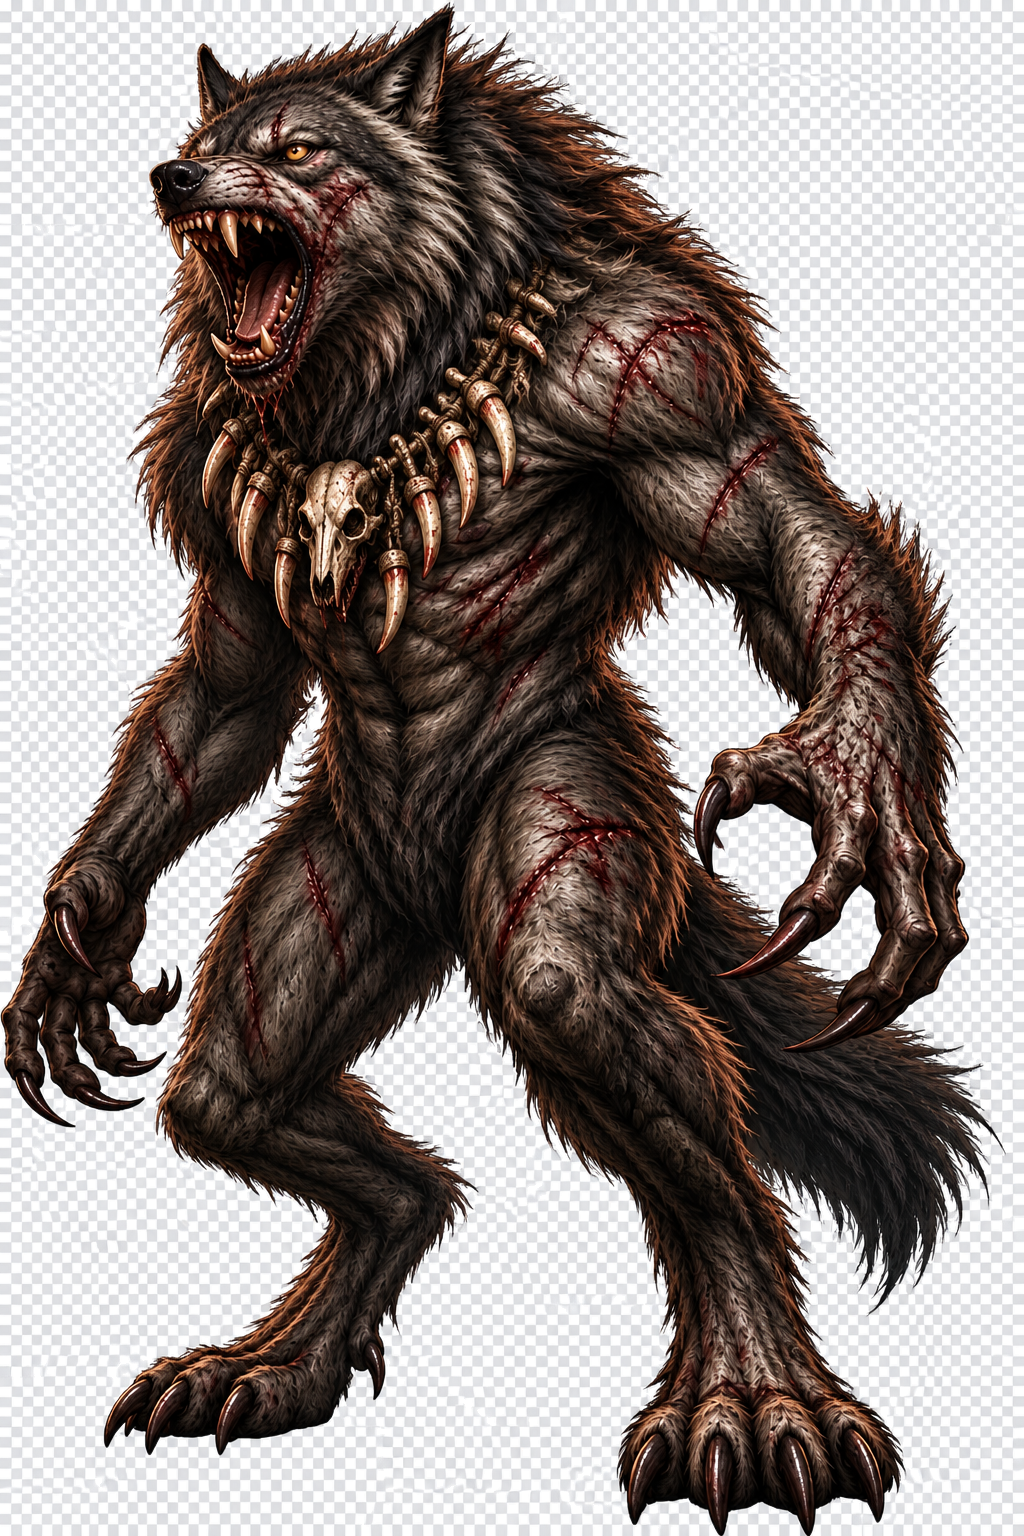
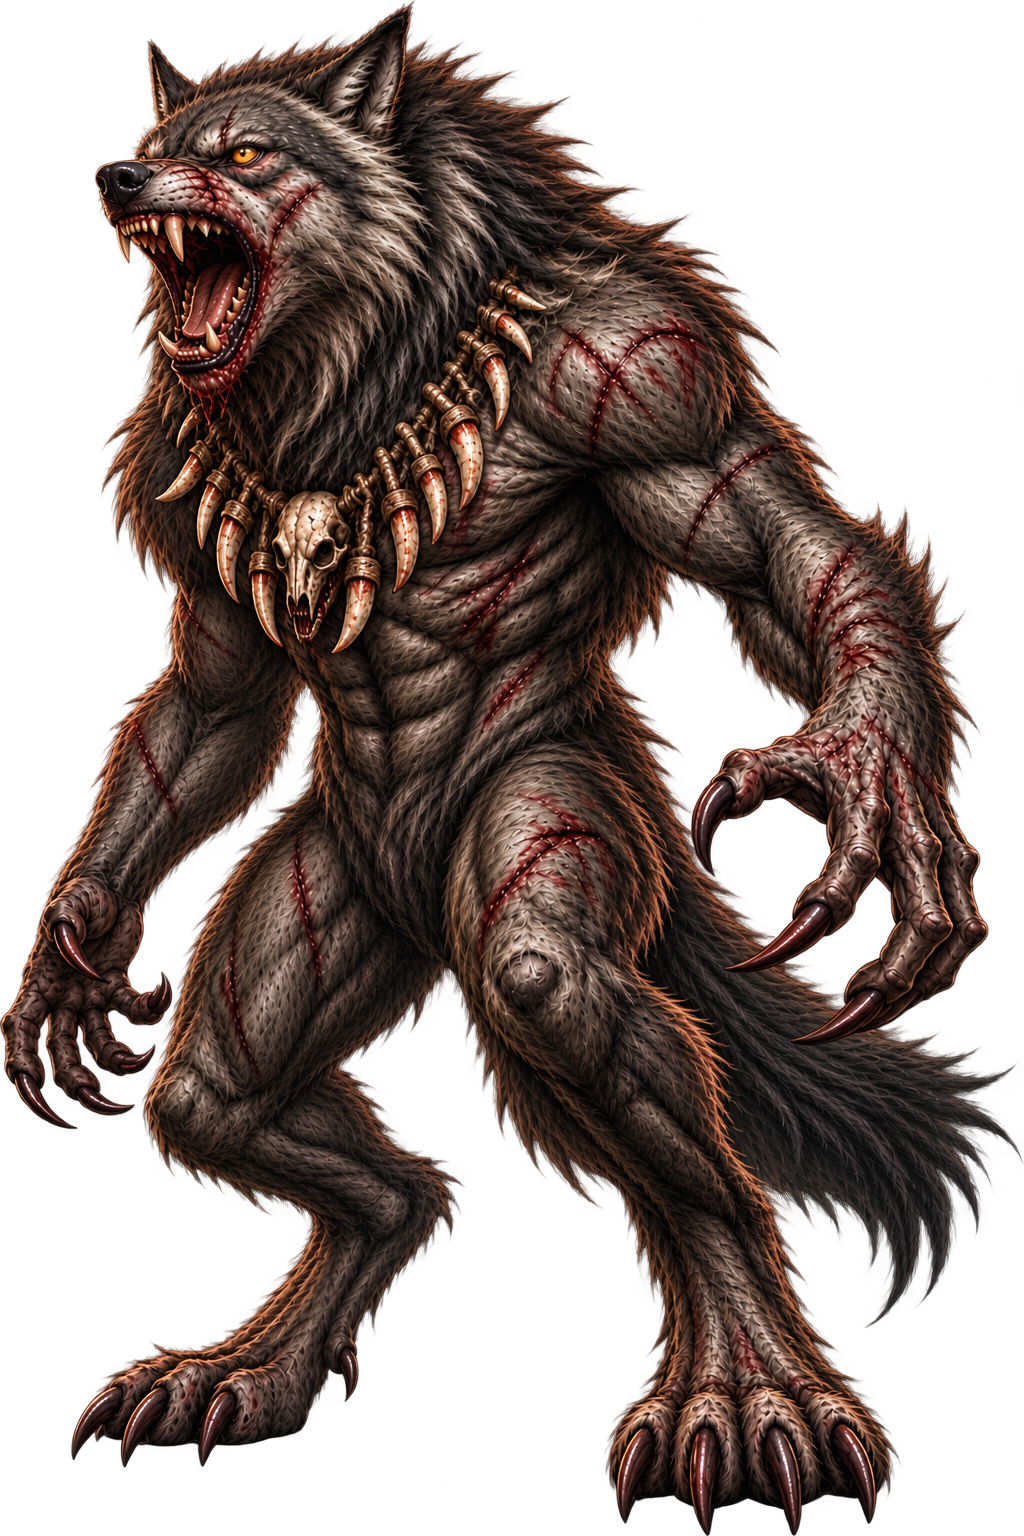
Replace Alfa V2 art with clean transparent source and contain it

diff --git a/src/game.js b/src/game.js
@@ -26,7 +26,7 @@ const COMBAT_PRESENTATION = {
     lobo_cinzento:{ x:0.73, ground:0, w:0.50, h:0.60, ax:-0.5, ay:0 },
     lobisomem_jovem:{ x:0.73, ground:0, w:0.50, h:0.70, ax:-0.5, ay:0 },
     uivante_sombras:{ x:0.70, ground:0, w:0.58, h:0.95, ax:-0.5, ay:0 },
-    alfa_matilha:{ x:0.68, ground:0, w:0.50, h:0.86, ax:-0.5, ay:0 },
+    alfa_matilha:{ x:0.75, ground:0, w:0.44, h:0.82, ax:-0.5, ay:0 },
     romar:{ x:0.70, ground:0, w:0.46, h:0.78, ax:-0.5, ay:0 },
     orc_batedor:{ x:0.68, ground:0, w:0.46, h:0.76, ax:-0.5, ay:0 },
     orc_guerreiro:{ x:0.69, ground:0, w:0.378, h:0.702, ax:-0.5, ay:0 },

diff --git a/styles/game.css b/styles/game.css
@@ -796,7 +796,8 @@
   transform:scaleX(-1);
 }
 
-/* Post-playtest: keep the stage and essential controls together; details scroll. */
+/* Alfa V3: contain the full silhouette in the arena actor. */
+.arena-actor[data-actor="alfa_matilha"] > .combatant-artwork > .avatar-img-circle{width:100%;height:100%;max-width:100%;max-height:100%;object-fit:contain;object-position:center bottom;}
 .combat-secondary summary{min-height:44px;padding:12px;cursor:pointer;color:var(--bone-dim);}
 .death-budget-note{font-size:14px;line-height:1.45;}
 @media(max-width:700px){
